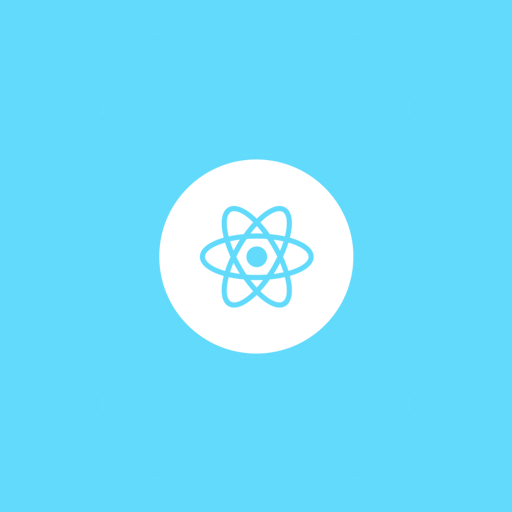
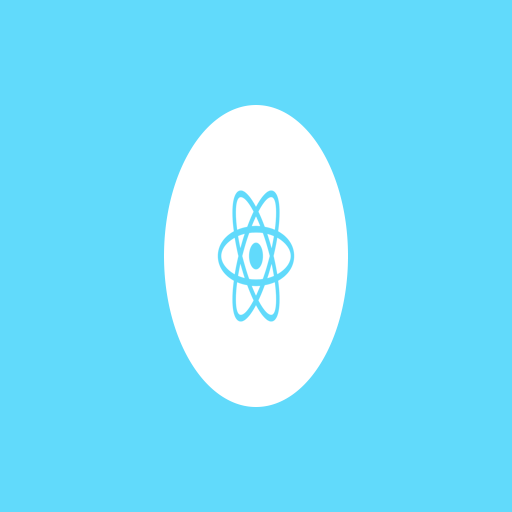
Modification images planetes et dark mode

Changed region(s): [[0.3125, 0.1875, 0.6875, 0.8125], [0.375, 0.375, 0.625, 0.625]]

diff --git a/src/components/section/skillSection/SkillPlanet.jsx b/src/components/section/skillSection/SkillPlanet.jsx
@@ -25,27 +25,26 @@ const SkillPlanet = ({ article, articlesNames }) => {
     const icons = [
         {
             name: articlesNames[0], icons: [
-                { src: 'images/javascript.png', title: 'JavaScript' },
-                { src: 'images/tailwindcss.png', title: 'Tailwind' },
-                { src: 'images/extjs.png', title: 'ExtJs' },
+                { src: 'images/pool_js.png', title: 'JavaScript' },
+                { src: 'images/pool_tailwindcss.png', title: 'Tailwind' },
+                { src: 'images/pool_extjs.png', title: 'ExtJs' },
                 { src: 'images/pool_react.png', title: 'React' }
             ]
         },
         {
             name: articlesNames[1], icons: [
-                { src: 'images/java.png', title: 'Java' },
-                { src: 'images/php.png', title: 'PHP' },
-                { src: 'images/spring.png', title: 'Spring' },
-                { src: 'images/symfony.png', title: 'Symfony' }
+                { src: 'images/pool_java.png', title: 'Java' },
+                { src: 'images/pool_php.png', title: 'PHP' },
+                { src: 'images/pool_spring.png', title: 'Spring' },
+                { src: 'images/pool_symfony.png', title: 'Symfony' }
             ]
         },
         {
             name: articlesNames[2], icons: [
-                { src: 'images/git.png', title: 'Git' },
-                { src: 'images/docker.png', title: 'Docker' },
-                { src: 'images/dart.png', title: 'Dart' },
-                { src: 'images/figma.png', title: 'Figma' },
-                { src: 'images/db.png', title: 'Database' },
+                { src: 'images/pool_git.png', title: 'Git' },
+                { src: 'images/pool_docker.png', title: 'Docker' },
+                { src: 'images/pool_dart.png', title: 'Dart' },
+                { src: 'images/pool_figma.png', title: 'Figma' }
             ]
         }
     ];

diff --git a/src/components/section/skillSection/SimpleSkillView.jsx b/src/components/section/skillSection/SimpleSkillView.jsx
@@ -46,11 +46,11 @@ const createCamera = () => {
 };
 
 const addLights = (scene) => {
-    const dirLight = new THREE.DirectionalLight(0xffffff, 5);
+    const dirLight = new THREE.DirectionalLight(0xffffff, 4);
     dirLight.position.set(0, 0, 5).normalize();
     scene.add(dirLight);
 
-    const dirLight2 = new THREE.DirectionalLight(0xffffff, 5);
+    const dirLight2 = new THREE.DirectionalLight(0xffffff, 3);
     dirLight2.position.set(0, 2, -5).normalize();
     scene.add(dirLight2);
 };
@@ -61,9 +61,7 @@ const createPlanets = (scene, icons) => {
         const planet = createPlanet(icon.src, index);
         if (isMobile) {
             planet.position.x = (index % 2) * 2 - 1;
-            planet.position.y = Math.floor(index / 2) * 2 - 1;
-        } else {
-            planet.position.x = index * 2 - 2;
+            planet.position.y = Math.floor(index / 2) * 2;
         }
         scene.add(planet);
         return planet;
@@ -71,11 +69,12 @@ const createPlanets = (scene, icons) => {
 };
 
 const createPlanet = (src, index) => {
-    const geometry = new THREE.SphereGeometry(.8, 32, 32);
+    const geometry = new THREE.SphereGeometry(.8, 16, 16);
     const texture = new THREE.TextureLoader().load(src);
     const material = new THREE.MeshPhongMaterial({map: texture});
     const planet = new THREE.Mesh(geometry, material);
     planet.position.x = index * 2 - 2;
+    planet.rotation.y = -Math.PI / 2;
     return planet;
 }
 

diff --git a/src/components/section/skillSection/SolarSystem.jsx b/src/components/section/skillSection/SolarSystem.jsx
@@ -64,7 +64,7 @@ const addLights = (scene) => {
 
 const createSun = (scene) => {
     const sunGeometry = new THREE.SphereGeometry(1, 128, 128);
-    const sunMaterial = new THREE.MeshBasicMaterial({color: 0xE284EB, transparent: true, opacity: .8});
+    const sunMaterial = new THREE.MeshBasicMaterial({color: 0xE284EB});
     const sun = new THREE.Mesh(sunGeometry, sunMaterial);
     scene.add(sun);
     return sun;

diff --git a/src/index.css b/src/index.css
@@ -30,12 +30,12 @@ html {
 }
 
 html.dark {
-    --color-primary: #4263d3;
-    --color-primary-hover: #6b8fec;
-    --color-secondary: #9333EA;
-    --color-tertiary: #DDD;
+    --color-primary: #008087;
+    --color-primary-hover: #105267;
+    --color-secondary: #25ae8d;
+    --color-tertiary: #105267;
     --color-section: #1F2937;
-    --text-color: #BFC5DE;
+    --text-color: #FAF7F5;
 }
 
 body {
